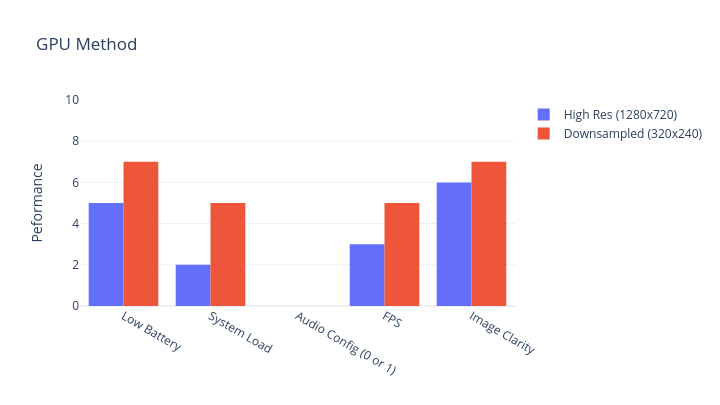
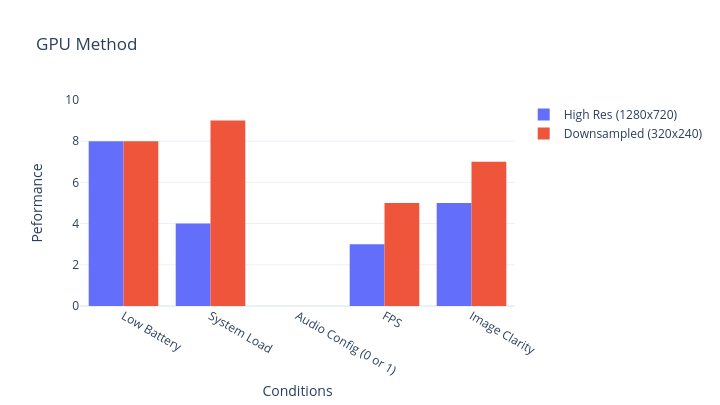
New post!

diff --git a/_posts/2020-08-04-how-to-process-spectral-mean-images.md b/_posts/2020-08-04-how-to-process-spectral-mean-images.md
@@ -1,7 +1,7 @@
 ---
 layout: post
 date: 2020-08-04
-title: "Creating Spectral Mean Images in Max/MSP/Jitter Using OpenGL"
+title: "How to process Spectral Mean Images in Max/MSP/Jitter using OpenGL"
 image: /assets/img/2020_08_04_spectral_main2.jpg
 categories: General
 excerpt: "In this post, I conduct an experiment to determine what the most effective system is for recording and previewing spectral images of motion over time in Max/MSP/Jitter using an OpenGL framework."
@@ -15,7 +15,7 @@ Keywords: MaxMSP, OpenGL, Jitter, spectral mean images, analysis, motiongram, vi
 </figure>
 -->
 
-As the title suggests, in this post we will investigate what the most optimal and effective system is for recording and previewing spectral mean images (motiongrams) in Max/MSP/Jitter using an OpenGL framework. I was motivated to explore this specific topic in-depth after running into some challenges while redeveloping an application that analyzes the spectral content of video and audio for the [**RITMO Centre for Interdisciplinary Studies in Rhythm, Time and Motion**](https://www.uio.no/ritmo/english/) at the University of Oslo, called AudioVideoAnalysis. I've written [**an entire post**](https://aleksandertidemann.github.io/projects/2020/07/24/audiovideoanalysis.html) about this application earlier so be sure to check it out if you're interested.
+As the title might suggest, in this post we will investigate what the most optimal and effective system is for recording and previewing spectral mean images (motiongrams) in Max/MSP/Jitter using an OpenGL framework. I was motivated to explore this specific topic in-depth after running into some challenges while redeveloping an application that analyzes the spectral content of video and audio for the [**RITMO Centre for Interdisciplinary Studies in Rhythm, Time and Motion**](https://www.uio.no/ritmo/english/) at the University of Oslo, called AudioVideoAnalysis. I've written [**an entire post**](https://aleksandertidemann.github.io/projects/2020/07/24/audiovideoanalysis.html) about this application earlier so be sure to check it out if you're interested.
 
 My investigation consists of an experiment where I designed and tested several of these OpenGL spectral mean image-producing systems in Max/MSP/Jitter to determine which was most effective. After briefly on elaborating on the background and method of this experiment, I will discuss the results before finally presenting the winning system(!)
 
@@ -51,7 +51,7 @@ Therefore, with this risk in mind, I wondered whether keeping all of the process
 That such a computationally expensive task, basically process 3 value for 921 600 pixels many (up to 60) times per second(!).  
 -->
 # Method
-To explore this question, I designed an experiment with the explicit purpose of testing this assumption thoroughly. The experiment consisted of testing three different OpenGL spectral mean image systems in two different configurations on two different machines. Testing was conducted on one system at a time (on both machines) in two rounds. First round with a high resolution image (1280x720) and the second round with a much lower resolution (320x240).
+To explore this question, I designed an experiment with the explicit purpose of testing this assumption further. The experiment consisted of testing three different OpenGL spectral mean image systems in two different configurations on two different machines. Testing was conducted on one system at a time (on both machines) in two rounds. First round with a high resolution image (1280x720) and the second round with a much lower resolution (320x240).
 
 ### Systems
 1. The first system uses a readback method to process the mean calculation on the CPU via ```[xray.jit.mean]```. From now, we refer to this system as the **XRAY method**.  
@@ -110,7 +110,7 @@ Since one of my goal also was to find a system that would be "universally" stabl
 
   * **FPS (Frames Per Second)** - The FPS value will always be closely linked to the *GPU/CPU load* and *audio parameter* categories. Basically, the higher FPS a system achieves, the better the system is. However, I designed each system to have a maximum limit of 60 FPS. It's important to have a max limit because we want to be able to design a clock source whose rate we can ensure will always exceed the current FPS value.
 
-  * **Image Clarity** - A well-performing system in my experiment is a system that shows few or no lags, does not crash (often), and most importantly has a low occurrence of missing/blank frames. These aesthetical aspects is what evaluate and rate through  Image Clarity category.
+  * **Image Clarity** - A well-performing system in my experiment is a system that shows few or no lags, does not crash (often), and most importantly has a low occurrence of missing/blank frames. These aesthetical aspects is what evaluate and rate through Image Clarity category.
 
 ### Clock
 As briefly mentioned, the systems use MSP (audio) signals as their main clock source/counter mechanism. Therefore, it's essential to define a set of fixed audio parameter settings beforehand. The clock determines how fast the images are printed across the display as it provides printing coordinates for the incoming one-dimensional images. There are many ways to build counter mechanisms in Max/MSP/Jitter, but I decided to use MSP in this experiment because it's a fast(!), stable, highly controllable and quite reliable clock source.
@@ -121,7 +121,7 @@ As briefly mentioned, the systems use MSP (audio) signals as their main clock so
   <figcaption></figcaption>
 </figure>
 
-The ```I/O Vector Size``` controls the number of samples that are transferred to and from the audio interface at any one time. Therefore, a smaller I/O vector size will consume a greater percentage of the computer's CPU resources. However, we don't want this value to be too big either as it can stall other computational processes. So to make sure the audio rate was stable but not too demanding, I set the I/O vector size to a reasonable 1024.
+The ```I/O Vector Size``` controls the number of samples that are transferred to and from the audio interface at any one time. Therefore, smaller I/O vector sizes consume more CPU resources. However, we don't want this value to be too big either as it can stall other computational processes. So to make sure the audio rate was stable but not too demanding, I set the I/O vector size to a reasonable 1024.
 
 The ```Signal Vector Size``` in Max/MSP/Jitter determines the number of samples that are calculated by MSP objects at any one time. Although [**it's documented**](https://docs.cycling74.com/max5/tutorials/msp-tut/mspaudioio.html) that variations in signal vector size only have slight effects on CPU performance, a larger vector size will nevertheless reduce some load. Considering that the systems opt for a maximum framerate of 60 FPS (one frame every 16ms), I could theoretically bring my signal vector size up to 256 ("outputting" a new vector every 5,8ms) without problems, given a sampling rate of 44.1Khz.
 
@@ -218,7 +218,6 @@ if (cell.x) {
 }
 out1 = main;
 ```
-The code iterates through every row of an incoming frame and gathers all its pixel information in a vector (main), before finally dividing the vector by the size of the horizontal dimension (dim.x).
 
 ## PIX method
 The **PIX method** is somewhat of a hybrid between the XRAY and GPU methods. The idea here is to basically implement the same **GPU method**, with a GenExpr for-loop inside a codebox object, but run it on the CPU instead. We can easily do this in Max by removing the "gl" tag in the [jit.gl.pix] object to create a ```[jit.pix]```object. However, as mentioned, it's important we use a [jit.gl.asyncread] whenever you want to migrate operations from the GPU to the CPU. The general recipe of this mean calculating method looks like this:
@@ -232,15 +231,171 @@ The **PIX method** is somewhat of a hybrid between the XRAY and GPU methods. The
 This method also gives me the opportunity to closer inspect how the GenExpr language performs and if there's any significant difference when executing it on the CPU vs. the GPU.
 
 # Results
+When testing each method, I rated them on a scale from 0-10 in each test condition. However, I only marked each system with either a 1 or 0 in the audio settings category, indicating *"yes, changing the audio settings did affect performance"* or *"no, changing the audio settings did not affect performance"*.
 
-Tested each system in both configurations on two machines, rated the overall performance of each system based on its FPS reading, image clarity (missing frames), machine load and how well it does on low battery conditions.  
+## XRAY Method
 
+<figure style="float: none">
+  <img src="/assets/img/2020_08_04_spectral_xray_results.png"
+  alt="pix results" title="pix results" width="auto" />
+  <figcaption>Test results for using the XRAY method to calculate mean values when processing spectral images. The higher the score, the better the performance. </figcaption>
+</figure>
 
+Not surprisingly, the overall performance of the **XRAY method** was good in both configurations. However, when displaying high resolution images (1280x720) in the AVA configuration, its performance did depended on which machine I was using. On my early 2011 Macbook pro, processing high resolution images in this configuration resulted in significantly more blank frames than content. However, on my more powerful Thinkpad both resolutions created usable and consisted motion images overall.  
 
+But regardless of some performance discrepancies when pushing the system quite hard, the overall load of the **XRAY method** applications was surprisingly low with only 5-10% increase in CPU usage from processing downsampled (320x240) to high resolution images (1280x720) on both machines. Similarly, running the applications on machines in low battery had little or no effect their performance.  
 
+<figure style="float: left; margin-left: 10px;">
+  <img src="/assets/img/2020_08_04_spectral_xray_ava_downsample_load.jpg"
+  alt="xray-ava-downsampled-load" title="xray-ava-downsampled-load" width="320" />
+  <figcaption>Processing 320x240 images with the XRAY method in the AVA configuration used 25% of my Thinkpad P53's CPU resources and about 70% of its GPU resources. Similar results were also documented on my Macbook pro.</figcaption>
+</figure>
 
+<figure style="float:none">
+  <img src="/assets/img/2020_08_04_spectral_xray_ava_highres_load.jpg"
+  alt="xray-ava-highres-load" title="xray-ava-highres-load" width="320" />
+  <figcaption>When processing 1280x720 high resolution images with the XRAY method in the same system configuration, there was only a 5% increase in CPU usage. Similar results were documented on my Macbook pro. </figcaption>
+</figure>
 
+But despite these relatively low CPU loads, the method did not show very promising framerates. When processing low resolution images the lowest recorded framerate I recorded was at about 14/15, which is very much usable, but on higher resolution images the lowest FPS reading was down at almost 6.
 
-The downsampling of my test applications is a bit crude. If its worth investigating more how this should relate to the chosen resolution, it should downsample by a factor of the dimensions.
-320 240. Its about a third.
-16:9 =1280x720
+An interesting discovery was that changing the I/O Vector Size and Signal Vector Size had a noticeable impact on its performance. This was visible when processing high resolution images in the AVA configuration, but it might also have an impact in less stressful configurations just not directly visible. But the consistent behavior here was that increasing the values of these audio settings effectively reduced the amount of lost frames (blank spots), which makes perfect sense considering that higher vector sizes reduce CPU load.
+
+In terms of image quality, I noticed no real advantages of rendering spectral image from high resolution video (1280x720), other than the occasional missing frame, as opposed to a downsampled (320x240) video.feed as the images below illustrates. The only factor that had any impact on the displayed image resolution, was increasing the temporal resolution or printing rate. An expected feature, and side-effect, of my system design.
+
+<figure style="float: left; margin-left: 10px;">
+  <img src="/assets/img/2020_08_04_spectral_xray_display_downsampled.jpg"
+  alt="xray-ava-downsampled-display" title="xray-ava-downsampled-display" width="350" />
+  <figcaption>Downsampled motiongram (320x240) using the XRAY method in the AVA configuration.</figcaption>
+</figure>
+
+<figure style="float:none">
+  <img src="/assets/img/2020_08_04_spectral_xray_display_highres.jpg"
+  alt="xray-ava-highres-display" title="xray-ava-highres-display" width="320" />
+  <figcaption>High resolution motiongram (1280x720) using the XRAY method in the AVA configuration.</figcaption>
+</figure>
+
+## GPU Method
+
+<figure style="float: none">
+  <img src="/assets/img/2020_08_04_spectral_gpu_results.png"
+  alt="gpu-results" title="gpu-results" width="auto" />
+  <figcaption>Test results for using the GPU method to calculate mean values when processing spectral images. The higher the score, the better the performance.</figcaption>
+</figure>
+
+Overall, the **GPU Method** showed some promising results when processing downsampled video-feeds. However, when processing high resolution images the system struggled to produce usable images, regardless of configuration or machine.
+
+Interestingly, the GPU load of processing a downsampled video-feed with the **GPU Method** corresponded to the GPU load of processing both downsampled and high resolution video-feeds with the **XRAY method**, except using less of the CPU's resources. However, increasing the image resolution in the **GPU Method** also increased the GPU utilization, effectively maxing out its resources pretty quickly, therefore rendering higher resolution image processing pretty unusable.
+
+<figure style="float: left; margin-left: 10px;">
+  <img src="/assets/img/2020_08_04_spectral_gpu_ava_downsample_load.jpg"
+  alt="gpu-ava-downsampled-load" title="gpu-ava-downsampled-load" width="320" />
+  <figcaption> Processing 320x240 images with the GPU method in the AVA configuration used about 70% of my Thinkpad P53's GPU resources, and 19% of its CPU resources. Similar results were also documented on my Macbook pro.</figcaption>
+</figure>
+
+<figure style="float:none">
+  <img src="/assets/img/2020_08_04_spectral_xray_ava_highres_load.jpg"
+  alt="xray-ava-highres-load" title="xray-ava-highres-load" width="320" />
+  <figcaption>When processing 1280x720 high resolution images with the GPU method in the same configuration, the GPU resources maxed out and used consumed 19% of the CPU resrouces. Similar results were documented on my Macbook pro. </figcaption>
+</figure>
+
+<br>
+<br>
+<br>
+
+Similar to the **XRAY Method**, the FPS readings of the **GPU Method** correlated strongly with the overall system load. That is, the higher the resolution of the video-feed the lower the frame rates. The lowest recorded FPS of the **GPU Method** in "high res mode" was as low as 3, while it remained pretty consistantly at 20 when processing lower resolution feeds.
+
+In terms of image quality, I noticed the same disadvantage of rendering higher resolution images as experienced in the **XRAY Method**. However, it was clear that this method had a higher occurrence of missing frames, regardless of processing resolutions, than the XRAY method and that the overall experience was of a less stable system.   
+
+<figure style="float: left; margin-left: 10px;">
+  <img src="/assets/img/2020_08_04_spectral_gpu_display_highres.jpg"
+  alt="GPU-isolated-highres-display" title="GPU-isolated-highres-display" width="320" />
+  <figcaption>High resolution motiongram (1280x720) using the GPU method in an isolated configuration.</figcaption>
+</figure>
+
+<figure style="float:none">
+  <img src="/assets/img/2020_08_04_spectral_gpu_display_downsampled.jpg"
+  alt="GPU-isolated-downsampled-display" title="GPU-isolated-downsampled-display" width="320" />
+  <figcaption>Downsampled motiongram (320x240) using the GPU method in an isolated configuration.</figcaption>
+</figure>
+
+<br>
+<br>
+<br>
+
+## PIX Method
+
+<figure style="float: none">
+  <img src="/assets/img/2020_08_04_spectral_pix_results.png"
+  alt="gpu-results" title="gpu-results" width="auto" />
+  <figcaption>Test results for using the PIX method to calculate mean values when processing spectral images. The higher the score, the better the performance.</figcaption>
+</figure>
+
+Another surprising discover was how awful the **PIX Method** performed considering it used the same code as the **GPU Method** only processed on the CPU instead. All the applications, in every configuration, instantly crashed when processing high resolution video-feeds with this method. More so, downsampling our video-feed had little or no positive effect on the load.
+
+<figure style="float: left; margin-right: 20px;">
+  <img src="/assets/img/2020_08_04_spectral_pix_downsampled_load.jpg"
+  alt="pix-downsampled-load" title="pix-downsampled-load" width="320" />
+  <figcaption> Processing 320x240 images with the PIX method in the isolated configuration used close to 90% of my Thinkpad P53's CPU resources. Similar results were also documented on my Macbook pro. </figcaption>
+</figure>
+
+In fact, this method was so stressful on both my machines that it was challenging to get any data at all. However, when processing a downsampled video-feed on my Thinkpad I was able to register a stable (and whopping) 88% CPU utilization, which effectively explains the awful behavior. What's interesting here is that this might shed some light on how the GenExpr environment works and what kinds of processes it's optimized for. On the other hand, it might suggest that my code was sub-optimal.   
+
+<br>
+<br>
+<br>
+<br>
+<br>
+
+# Conclusion
+First of all, because of the small size of my experiment, the findings should not to be interpreted as being statistically significant in any way, nor does the experiment heed to a particularly high scientific standard as it does not factor inn or control a vast range of variables that might have effected the results. On the other hand, the findings do provide clear insights into how to design a system for creating spectral mean images in Max/MSP/Jitter.
+
+So to briefly recap, in this experiment I sought to determine whether an OpenGL spectral mean image system in Max/MSP/Jitter should do its pixel mean calculations on the CPU or the GPU by testing three different such methods (XRAY, GPU and PIX method), in two different configurations (isolated and AVA), on two different machines (Thinkpad P53 and Macbook Pro 15" early 2011 model). The findings indicate that the **XRAY method** is the most stable; migrating the image content from the GPU to the CPU via a ```[jit.gl.asyncread]``` object and performs the actual calculations with an external object called ```[xray.jit.mean]```. However, assuming we process relatively low resolution images, the **GPU method** can actually be a better alternative as it performs equally well while putting less stress on the machines CPU. In other words, if you want a stable and highly controllable system that can accommodate various resolutions you should opt the for **XRAY method**. On the other hand, if you're only going to process relatively low resolution images and want to utilize most of your CPU power elsewhere, you should opt the **GPU method**.
+
+It's worth noting that the findings also revealed some interesting limitations with the code used to process the mean image in the GPU and PIX methods.
+These limitations might be attributed the nature of the GenExpr language itself, it's speed and so on, or might simply be a side-effect of a sub-optimal code structure (basically bad coding on my part). Unfortunately, I found too little technical documentation to be able to rule out or confirm any of these assumptions.  
+
+## Algorithmic Downsampling
+The findings also suggest that we should always seek to downsample our video-feed before doing mean calculations, regardless of whether we use a XRAY or GPU method to generate our spectral images. The downsampling method I used in this experiment was pretty crude as it always downsampled the incoming image to 320x240. This is sub-optimal because we might run into scenarios where we want to process content with even lower dimensions, or where we want to have the opportunity to process high resolution images. In this case, it's worth briefly looking at how we can design a more dynamic and permanent downsampling method that can better accommodate for various needs.
+
+To illustrate how we could take a more algorithmic approach to downsampling our matrices/textures, I designed a simple program in GenExpr that downsamples image dimensions based on a few conditions:
+
+* **If** the horizontal dimension is larger than the vertical dim, and 1/3 of the horizontal dimension is *greater* than 320, **then** we scale the horizontal dim value down to 1/3 of its original size and downscale the vertical dimension to the value that ensures we preserve the aspect ratio of the incoming image.
+* However, **if** the horizontal dimension is larger than the vertical dim **and** 1/3 of the horizontal dimension is *smaller* than 320, we do nothing.
+
+The processes is the same if the vertical dimension is larger than the horizontal dimension, only then we use the vertical dimension as "the basis" for the aspect ratio and take 240 as the standard as opposed to 320. Here's what this translates to in GenExpr code:
+
+```
+xdim, ydim = 0; //in1 is the X-dim, and in2 is the Y-dim
+
+if (in1 > in2) { //if X-dim is larger than Y-dim.
+  if (in1 > 320) {
+    if (in1/3 > 320) {
+      ydim = (in2 / in1) * (in1/3); //preserving aspect ratio from X-dim
+      xdim = in1/3;
+      } else {
+        ydim = (in2/in1) * 320;
+        xdim = 320;
+       }
+    } else {
+      ydim = in2;
+      xdim = in1;
+    }
+  } else { //if Y-dim is larger than X-dim.
+    if (in2 > 240) {
+      if (in2/3 > 240) {
+        ydim = in2/3;
+        xdim = (in1/in2) * (in2/3); //preserving aspect ratio from Y-dim
+        } else {
+          ydim = 240;
+          xdim = (in1/in2) * 240;
+        }
+    } else {
+      ydim = in2;
+      xdim = in1;
+    }
+}
+
+out2 = ydim;
+out1 = xdim;
+```
